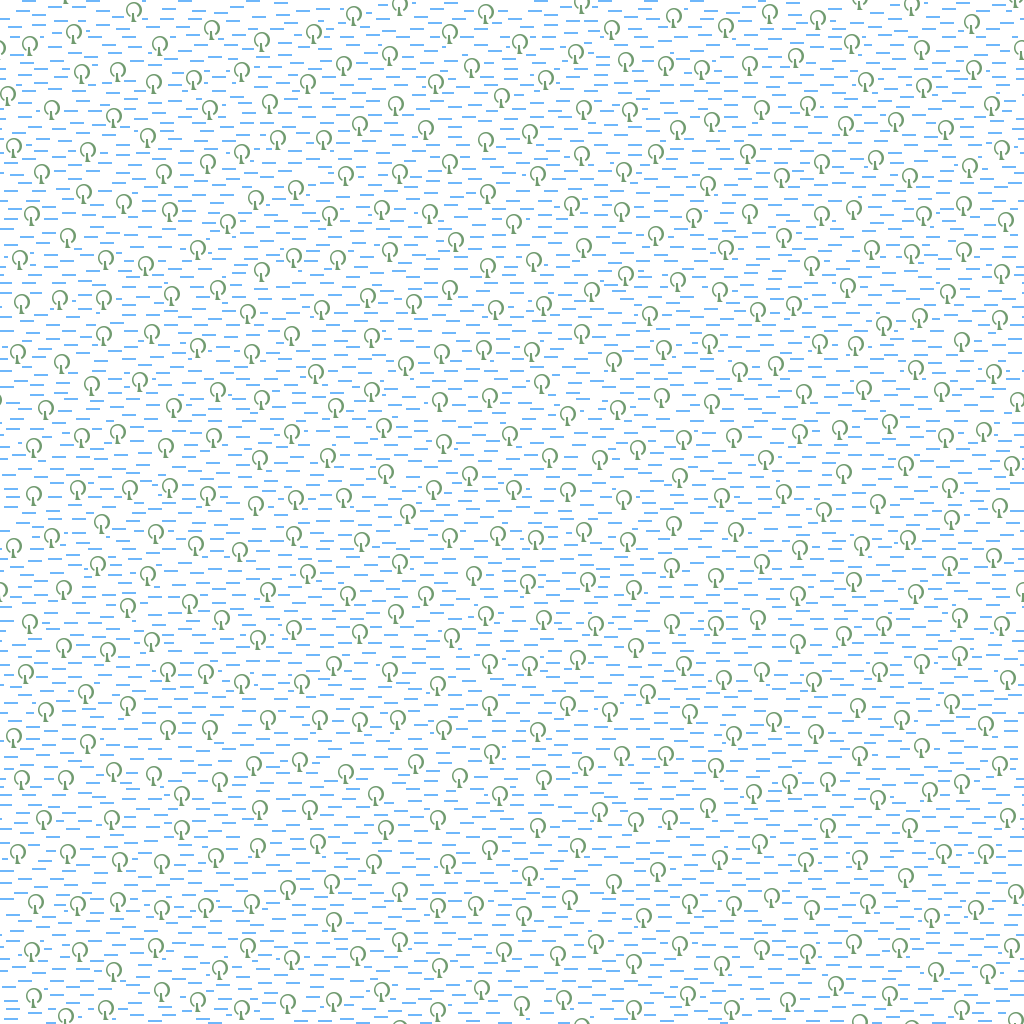
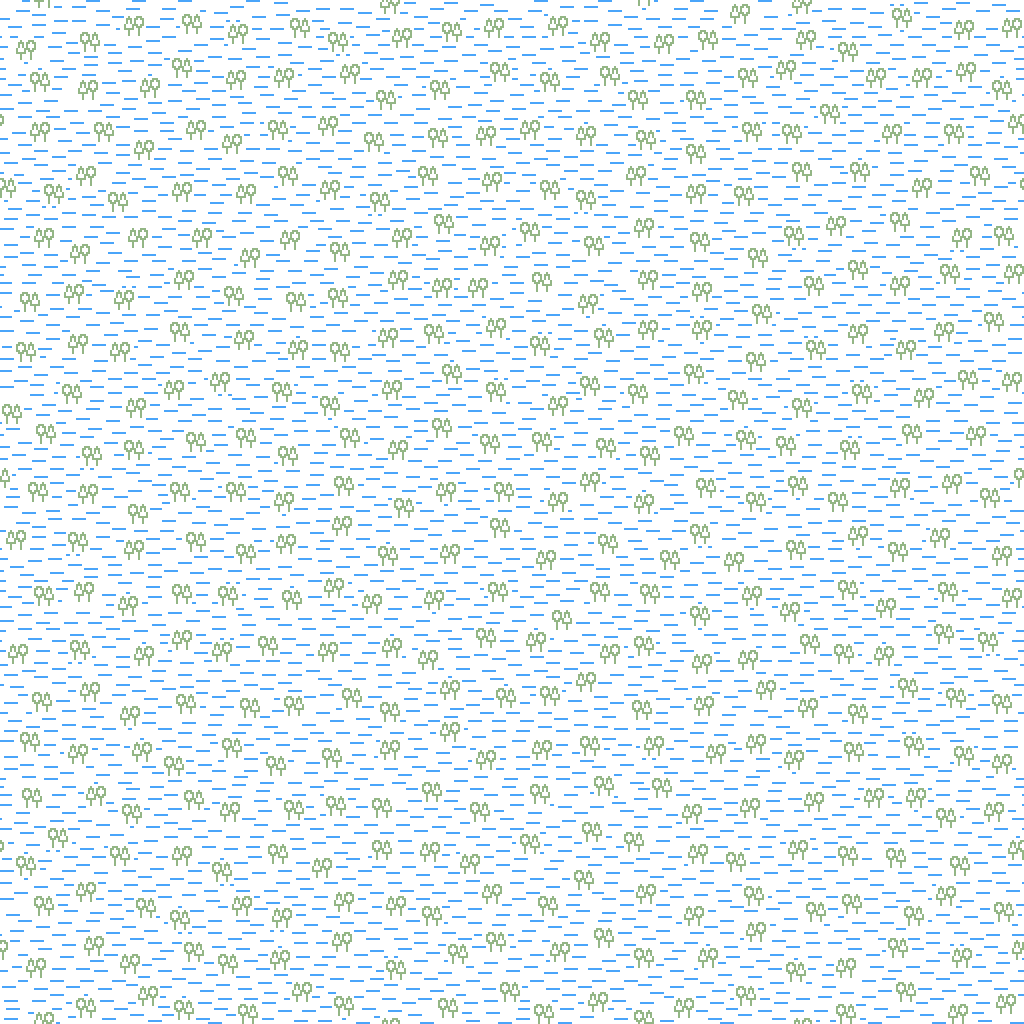
Uniformize swamp rendering with forest/wood (#3051)
* Uniformize swamp rendering with forest/wood (fixes #1920)

Thanks @imagico for the pattern

* Updated swamp.svg and regenerated patterns accordingly

* Ajout pour mémoire des commandes utilisées pour génération

* Finally generated a correct PNG pattern for swamps

* Pixel-aligned and corrected gamma of swamp pattern

Changed region(s): [[0.0, 0.0, 1.0, 1.0]]

diff --git a/symbols/generating_patterns/wetland.md b/symbols/generating_patterns/wetland.md
@@ -14,3 +14,23 @@ convert -depth 8 -size 512x512 xc:"$SYMBOL" \( pattern.png -negate \) -set color
 
 convert -depth 8 -size 512x512 xc:"$WETLAND" \( wetland_pattern_bkg.png -negate \) -set colorspace RGB -alpha Off -compose CopyOpacity -composite +compose pattern_col.png -compose Over -composite wetland_pattern.png
 ```
+
+In some cases, which has not been elucidated (https://github.com/gravitystorm/openstreetmap-carto/pull/3051), the SVG conversions produce files with erroneous sizes. In this case, the following command sequence may work, by using Inkscape to rasterize the SVGs:
+
+```
+inkscape -z --export-png=swamp.png --export-dpi=96 --export-background=white swamp.svg
+
+inkscape -z --export-png=swamp_hr.png --export-dpi=768 --export-background=white swamp.svg
+
+convert swamp_hr.png -morphology Erode Disk:5.3 \( +clone -fill black -draw 'color 0,0 floodfill' -negate \) +swap -morphology Erode Disk:10.3 -compose Darken -composite -scale 12.5% -depth 8 pattern_casing.png
+
+inkscape -z --export-png=wetland_tile.png --export-dpi=96 --export-background=white wetland.svg
+
+montage wetland_tile.png wetland_tile.png wetland_tile.png wetland_tile.png -geometry 256x256+0+0 wetland_512.png
+
+convert wetland_512.png \( pattern_casing.png -negate \) -compose Lighten -composite -threshold 50% \( +clone -negate -morphology hitandmiss peaks:1.9 \) -compose Lighten -composite +level 20%,100% wetland_pattern_bkg.png
+
+convert -depth 8 -size 512x512 xc:"#93b685" \( swamp.png -negate \) -set colorspace RGB -alpha Off -compose CopyOpacity -composite pattern_col.png
+
+convert -depth 8 -size 512x512 xc:"#4aa5fa" \( wetland_pattern_bkg.png -negate \) -set colorspace RGB -alpha Off -compose CopyOpacity -composite +compose pattern_col.png -compose Over -composite  +gamma - -strip wetland_pattern.png
+```
